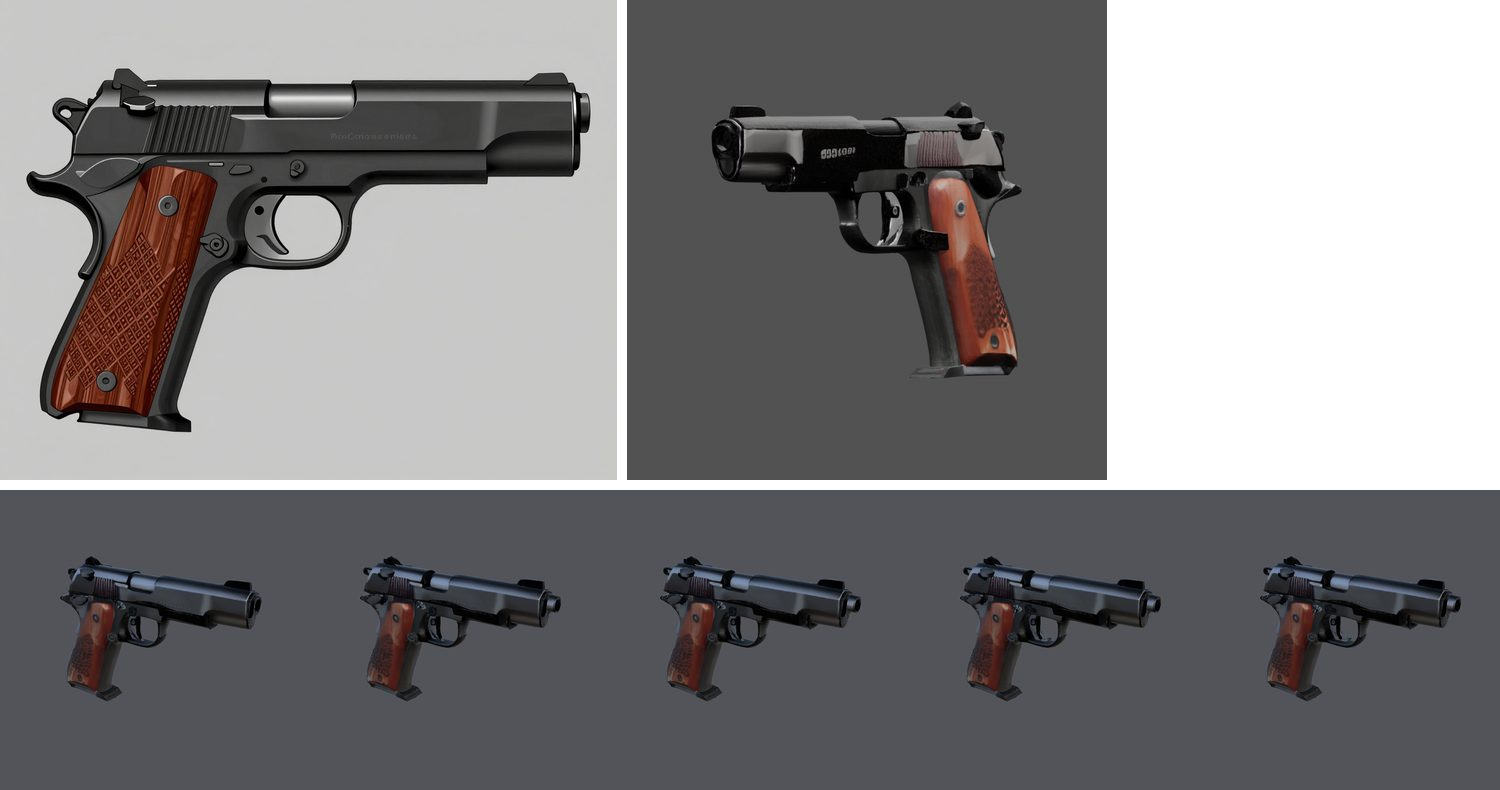
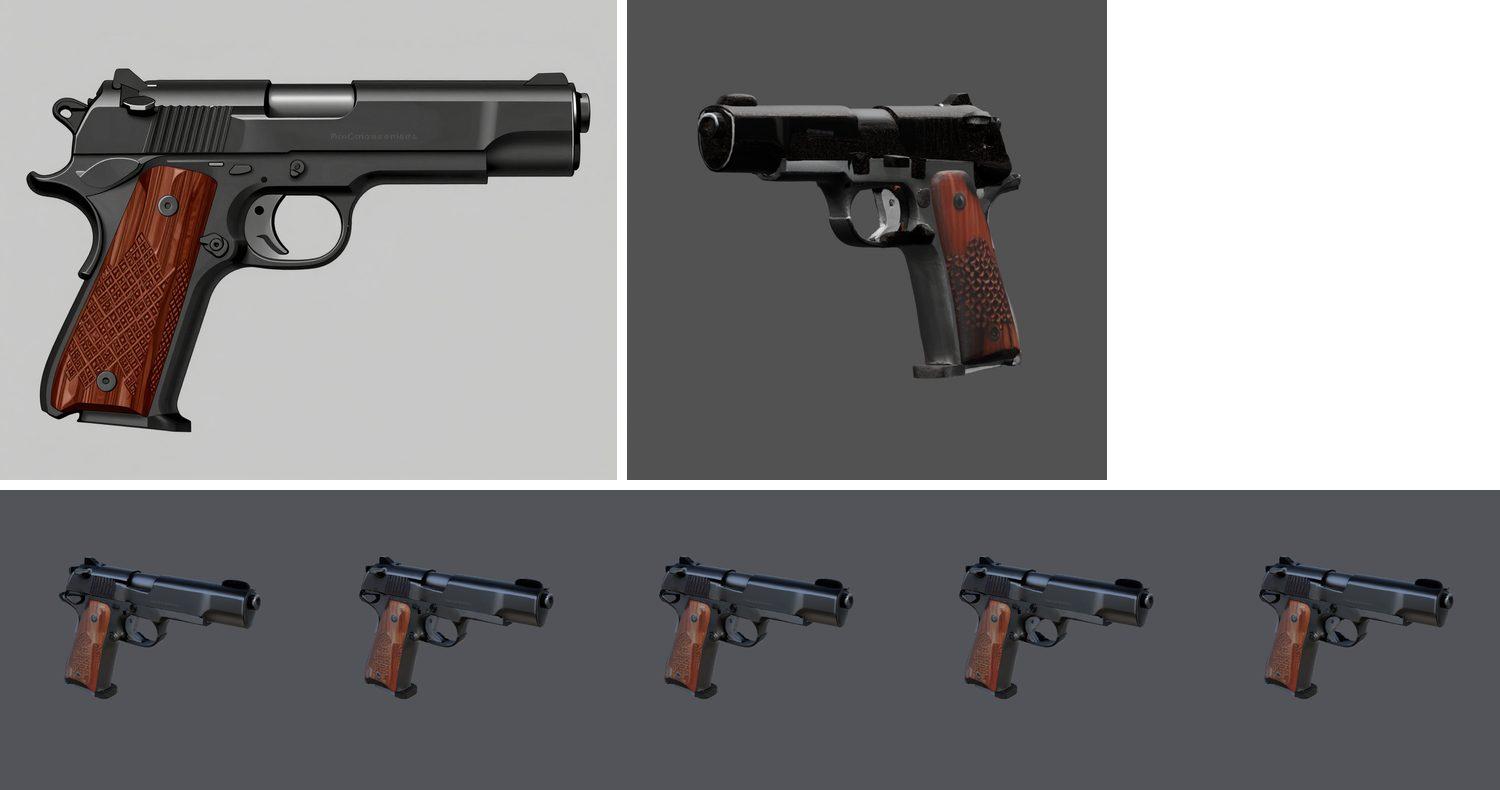
feat(validation): a mesh whose faces fold against each other is retried (mesh_folded)
The chest's sixth seed passed every gate, published and played, and Unity shaded it in
facets: the collapse decimation had crumpled the thin-walled box (0.47 of its shared edges
between opposed faces; sound meshes read 0.00-0.02) and Blender's custom normals hid it.
Inspection records folded_edge_share per mesh; over the type's max_folded_edge_share (0.1)
the candidate is the retryable mesh_folded. Evidence page and state say no chest is a usable
asset yet.

diff --git a/blender/inspect_model.py b/blender/inspect_model.py
@@ -26,6 +26,17 @@ def write_result(path, result):
     os.replace(temporary, path)
 
 
+def folded_edges(mesh):
+    """The share of a mesh's edges whose two faces point opposite ways: a surface crumpled into a sheet (a collapse
+    decimation on a thin-walled part, 2026-10-25) shades in facets in an engine while custom normals hide it here."""
+    bm = bmesh.new()
+    bm.from_mesh(mesh)
+    pairs = [edge for edge in bm.edges if len(edge.link_faces) == 2]
+    folded = sum(1 for edge in pairs if edge.link_faces[0].normal.dot(edge.link_faces[1].normal) < -0.5)
+    bm.free()
+    return round(folded / len(pairs), 4) if pairs else 0.0
+
+
 def connected_components(mesh):
     parent = list(range(len(mesh.vertices)))
     size = [1] * len(parent)
@@ -315,6 +326,7 @@ def inspect(source, face_budget, real_scale=False):
                           for obj in objects if isinstance(obj.get("slopforge_part_overflow"), str)), None)
     part_penetration = next(({name: float(value) for name, value in json.loads(obj["slopforge_part_penetration"]).items()}
                              for obj in objects if isinstance(obj.get("slopforge_part_penetration"), str)), None)
+    folded_edge_share = {obj.name: folded_edges(obj.data) for obj in objects}
     component_records = [part for obj in objects for part in component_details(obj)]
     weld_distance = max(dimensions) * 1e-5
     topology_edges = [topology_edge_counts(obj.data, weld_distance) for obj in objects]
@@ -340,6 +352,7 @@ def inspect(source, face_budget, real_scale=False):
                 **({"part_coverage": part_coverage} if part_coverage is not None else {}),
                 **({"part_overflow": part_overflow} if part_overflow is not None else {}),
                 **({"part_penetration": part_penetration} if part_penetration is not None else {}),
+                "folded_edge_share": folded_edge_share,
                 **({"part_components": {part["name"]: part["components"] for part in parts}} if parts else {}),
                 "bounds_min": minimum, "bounds_max": maximum, "dimensions": dimensions, "origins": origins,
                 "objects": object_bounds,

diff --git a/slopforge/validation.py b/slopforge/validation.py
@@ -425,6 +425,28 @@ def apply_part_penetration(validation, penetration, declared, tolerance):
     return validation
 
 
+def apply_mesh_folds(validation, shares, maximum):
+    """Fail a candidate whose faces fold against each other (retryable mesh_folded): `shares` is inspection's
+    folded_edge_share per mesh object, the share of edges whose two faces point opposite ways. A collapse
+    decimation can crumple a thin-walled generated part into such a sheet (the 2026-10-25 chest, 0.47); it shades
+    in facets in an engine while custom normals hide it in Blender. None (not measured): no verdict."""
+    if not shares:
+        return validation
+    measured, limits = validation.setdefault("measured", {}), validation.setdefault("limits", {})
+    measured["folded_edge_share"] = {name: float(value) for name, value in shares.items()}
+    measured["max_folded_edge_share"] = max(measured["folded_edge_share"].values())
+    limits["max_folded_edge_share"] = maximum
+    folded = [name for name, value in measured["folded_edge_share"].items() if value > maximum]
+    if folded:
+        detail = ", ".join(f"{name} {measured['folded_edge_share'][name]:.2f}" for name in folded)
+        validation["errors"] = [*validation.get("errors", []),
+            f"mesh faces fold against each other ({detail} of their shared edges, limit {maximum:g}): the reduction "
+            "crumpled a thin surface, so another seed is tried"]
+        validation["failure_codes"] = [*validation.get("failure_codes", []), "mesh_folded"]
+        validation["status"] = "failed"
+    return validation
+
+
 def apply_moving_parts(validation, declared):
     """Fail a weapon whose declared moving part did not come out as its own piece (retryable quality code).
 

diff --git a/tests/test_failure_classification.py b/tests/test_failure_classification.py
@@ -1029,6 +1029,19 @@ class PropComponentBudgetTests(unittest.TestCase):
         unmeasured = apply_part_penetration(_quality_report(component_count=1), {}, declared, 0.02)
         self.assertEqual(unmeasured.get("failure_codes", []), [])  # the cut route measures nothing: no verdict
 
+    def test_a_mesh_whose_faces_fold_against_each_other_is_retried(self):
+        # The C4 chest (2026-10-25): the collapse decimation crumpled a thin-walled box, 47% of its adjacent faces
+        # came out with opposed normals, and Unity shaded it in facets (Blender's custom normals hid it).
+        from slopforge.validation import apply_mesh_folds
+        report = apply_mesh_folds(_quality_report(component_count=1), {"body": 0.472, "lid": 0.01}, 0.1)
+        self.assertEqual(report["failure_codes"], ["mesh_folded"])
+        self.assertIn("body 0.47", report["errors"][-1])
+        self.assertEqual(report["measured"]["folded_edge_share"], {"body": 0.472, "lid": 0.01})
+        self.assertEqual((report["measured"]["max_folded_edge_share"], report["limits"]["max_folded_edge_share"]), (0.472, 0.1))
+        self.assertTrue(candidate_quality_rejection(report))
+        self.assertEqual(apply_mesh_folds(_quality_report(component_count=1), {"body": 0.026}, 0.1).get("failure_codes", []), [])
+        self.assertEqual(apply_mesh_folds(_quality_report(component_count=1), None, 0.1).get("failure_codes", []), [])
+
     def test_a_base_colour_without_textured_pixels_records_no_metric_and_stays_retryable(self):
         # 2026-10-25 live pistol: an all-black atlas left no texels to measure, the chroma metrics became NaN, the
         # failure record could not carry its evidence, and a retryable part_missing was reported as final.

diff --git a/slopforge/pipelines/model.py b/slopforge/pipelines/model.py
@@ -34,7 +34,7 @@ from ..unity_playmode import verify_play_mode
 from ..kit_material import kit_texture, match_hue, match_roughness
 from ..parts import check_part_masks, make_part_masks, part_settings
 from ..validation import (MIN_EMISSIVE_FRACTION, apply_concept_colour, apply_concept_silhouette, apply_declared_emitter,
-                          apply_part_coverage, apply_part_penetration,
+                          apply_mesh_folds, apply_part_coverage, apply_part_penetration,
                           apply_concept_fit, apply_declared_glass, apply_declared_nonmetal, apply_module_footprint,
                           apply_module_stretch, apply_moving_parts, apply_thin_features, apply_weapon_orientation,
                           concept_colour_fidelity, concept_thin_recall,
@@ -1294,6 +1294,8 @@ def _native_material_candidate(root, config, context, asset_type, asset, number,
         validation = apply_weapon_orientation(validation)
     if moving:
         validation = apply_moving_parts(validation, [name for name, _kind, _mask in moving])
+    validation = apply_mesh_folds(validation, validation.get("measured", {}).get("folded_edge_share"),
+                                  float(asset_type.get("max_folded_edge_share", 0.1)))
     if mesh_info.get("part_model"):
         validation = apply_part_coverage(validation, validation.get("measured", {}).get("part_coverage") or {},
                                          asset.get("parts") or [], asset_type.get("min_part_coverage", 0.55))

diff --git a/tests/test_blender_material_bake.py b/tests/test_blender_material_bake.py
@@ -1055,6 +1055,8 @@ bpy.ops.export_scene.gltf(filepath=sys.argv[-1], export_format='GLB', use_select
         # swept through its declared range (Unity's sense: a negative turn about x lifts a back-hinged lid): the
         # share of the lid's vertices inside the body over rest; the gate retries a seed that sweeps into the body
         self.assertLessEqual(measured["inspection"]["part_penetration"]["lid"], 0.02)
+        # the faces of a box and its lid agree with their neighbours: a crumpled reduction would read ~0.5
+        self.assertLess(max(measured["inspection"]["folded_edge_share"].values()), 0.05)
         sunk = self.orient({}, [], concept, None, budget=20000, target="-,-,0.6", masks=masks, pivot="bottom_center",
                            extra=("--part", "lid", "hinge", "lid.png", "--anchor", "lid=back-top",
                                   "--parts-json", "parts.json", "--motion", "lid=x:0..100"),

diff --git a/slopforge/failures.py b/slopforge/failures.py
@@ -30,6 +30,7 @@ _CANDIDATE_QUALITY_CODES = frozenset({
     "weapon_orientation",
     "part_missing",
     "part_penetrates",
+    "mesh_folded",
 })
 
 # ── Retryable categories (subset of all categories) ───────────────────
@@ -395,6 +396,7 @@ def candidate_quality_rejection(validation: dict) -> bool:
         "weapon_orientation": ("weapon_tip_alignment", "min_weapon_tip_alignment"),
         "part_missing": ("moving_parts_missing", "max_moving_parts_missing"),
         "part_penetrates": ("moving_parts_penetrating", "max_moving_parts_penetrating"),
+        "mesh_folded": ("max_folded_edge_share", "max_folded_edge_share"),
     }
 
     for code in codes:

diff --git a/docs/media/weapon-parts-functional-2026-10/README.md b/docs/media/weapon-parts-functional-2026-10/README.md
@@ -31,16 +31,17 @@ page is the live evidence for the branch that followed (`feat/weapon-parts-quali
 
 ## Pistol: published and played
 
-![Pistol: concept, Unity three-quarter view, the motion strip](pistol_unity.jpg)
+![Pistol P4: concept, Unity three-quarter view, the motion strip](pistol_unity.jpg)
 
-The P2 run (branch at PR1–5) passed its gates with the colour transfer and the metal-lightness match measured for
-the first time on this route (metal gain 2.9×, darkened share 0.053, slide 0.90 of its mask, trigger 0.99) and
-published through Unity: slide −0.0300 m, trigger 20.00°, penetration 0.002 and 0.001 over rest, no pivot drift.
-Its trigger had been declared `-20..0`, which in Unity's sense swings a hanging trigger forward. P3 is the same
-brief with `0..20` (a pull): its seed passed the mesh and colour gates (slide 0.86 of its mask, trigger 0.96) but
-Unity rejected the publication, the slide reading 0.040 of its vertices inside the frame over rest when drawn back
-(tolerance 0.02). That is what led to the sweep in Blender's final pass, so such a seed is replaced before
-materials; P4 is P3 re-approved with fresh seeds through it.
+| Run | Trigger declared | Mesh and colour gates | Unity |
+| --- | --- | --- | --- |
+| P2 (branch at PR1–5) | `-20..0` | passed: metal gain 2.9×, darkened 0.053, slide 0.90 of its mask, trigger 0.99 | published: slide −0.030 m, trigger −20°, penetration ≤ 0.002; the trigger swings forward (the sign) |
+| P3 | `0..20` (a pull) | passed: slide 0.86, trigger 0.96 | rejected: slide 0.040 inside the frame drawn back, by a single ray along x |
+| P4 (fresh seeds through the Blender sweep) | `0..20` | passed on seed 1: slide 0.95, trigger 0.86 (0.55 of it outside its mask), chroma ratio 1.41, darkened 0.018; Blender sweep 0.000 for both | **published and played**: slide −0.030 m, trigger 20.00°, penetration 0.015 and 0.006 (two-of-three rays), no pivot drift; 4 colliders, 1 kg, sockets grip/muzzle/slide/trigger, Animator `Rest`/`slide`/`slide_open`/`trigger`/`trigger_open`; Play mode: both pulses and `RestsOnTheGround` passed |
+
+P3's rejection came from the single-ray parity Unity used then: the same seed read 0.000 in Blender with rays along
+two of three axes, and a close-up render showed no clipping. Both checks now count a point inside by two of three
+rays; a single ray along x read 0.03–0.08 on three parts that were clear.
 
 ## Rifle: rejected by the coverage gate, and why
 
@@ -60,14 +61,17 @@ side) and says so; the brief, not a seed, has to change (a bigger bolt handle, o
 | --- | --- | --- | --- | --- |
 | C2 | `lid=hinge:x:0..110@back-top` | lid 0.86 of its mask, one piece, pivot on the lid's apex edge | passed on seed 3 (chroma ratio 0.77, darkened 0.16) | rejected: the lid swept through the body (0.27 of its vertices inside): `back-top` of a domed lid is its apex, and a positive turn sinks the front |
 | C3 | `lid=hinge:x:0..100@back-bottom` | lid 0.87, pivot on the seam | passed on seed 1 (0.72, 0.14) | rejected: 0.17 inside; the error now names `-100` as the sign that clears the body (0.000) |
-| C4 | `lid=hinge:x:-100..0@back-bottom` | lid 0.77 / 0.87 / 0.91 | seeds 1–3 failed (chroma ratio 0.39 / 0.07 / 0.55; darkened 0.65 on seed 2) | pending the retry |
+| C4 | `lid=hinge:x:-100..0@back-bottom` | lid 0.77 / 0.87 / 0.91, then 0.85 / 0.83 / 0.80 | seeds 1–3 failed (chroma ratio 0.39 / 0.07 / 0.55; darkened 0.65 on seed 2); seeds 4–5 failed; seed 6 passed (chroma ratio 0.93, darkened 0.05) | published and played: lid −100.00°, penetration 0.000, no pivot drift; 2 colliders, 5 kg, `Socket_lid` at the seam, Animator `Rest`/`lid`/`lid_open`; Play mode passed — **but Unity shades the mesh in facets**: the collapse decimation crumpled this seed's thin-walled box (0.47 of its shared edges between opposed faces; sound meshes 0.00–0.02), hidden in Blender by custom normals. A new `mesh_folded` gate rejects such a seed at the mesh stage; this one is not a usable asset |
 
+![Chest C4: concept, Unity three-quarter view (Blender preview), and the faceted Unity strip](chest_unity.jpg)
 ![Chest C3 in Unity: the lid turns about its seam, the wrong way](chest_c3_motion.jpg)
 
 OmniPart's chest textures vary from seed to seed: the oak comes out pale in front and dark on the sides and back,
 and one seed in three is grey all over. The colour transfer (median a\*b\* shift capped at 25, lightness up to 3×)
-lifts the lightness but not the chroma of a desaturated bake, so the chest's colour gates passed 2 of 9 seeds
-across these runs while the lid's geometry passed every one. That is the open quality item on props with parts.
+lifts the lightness but not the chroma of a desaturated bake, so the chest's colour gates passed 3 of 12 seeds
+across these runs while the lid's geometry passed every one; the one seed that passed everything else was crumpled
+by the reduction. **No chest is published as a usable asset yet.** Its open items are the colour consistency and a
+reduction that keeps thin walls (the mesh-fold gate now stops the crumpled ones from reaching Unity).
 
 ## What a game gets
 
@@ -81,7 +85,9 @@ the asset). The Play-mode run needs the project's editor installed by the Hub (o
 
 - OmniPart at 64³ cannot make a moving part under about 3 cells across; the preflight stops such briefs.
 - Seed-to-seed consistency: the chest's colour, the pistol's trigger coverage (0.64–0.99 across seeds) and its
-  overflow (0.74 of the trigger outside its mask on P2) all vary; nothing here is a repeatability claim.
+  overflow (0.55–0.74 of the trigger outside its mask) all vary; nothing here is a repeatability claim.
+- The penetration measures are ray-parity approximations on meshes with holes; Unity and Blender now use the same
+  rule, and the eye was the arbiter where they disagreed (renders in the private run folders).
 - Play mode checks that each part moves and returns and that the body settles on a floor; it does not check a
   player picking the asset up, nor the look under a game's own lighting.
 - No LODs; one asset per brief; the crossbow was not rerun.

diff --git a/CURRENT_STATE.md b/CURRENT_STATE.md
@@ -1049,12 +1049,19 @@ Multi-part weapons and props: quality and in-game function (2026-10-25, M3, [gui
   opt-in Unity live (colliders, sockets, Animator, penetration with the mirrored hint, Play mode), `make verify`.
 - **Live (2026-10-25):** pistol P2 published and played (slide −0.0300 m, trigger −20.00°, penetration ≤ 0.002;
   its trigger declared the wrong way, forward); P3, the same brief with the trigger pulling (`0..20`), passed the
-  mesh and colour gates but Unity rejected its slide (0.040 inside the frame drawn back), which led to the Blender
-  sweep; P4 is P3 re-approved through it. Rifle R2 rejected: the bolt handle
+  mesh and colour gates but Unity rejected its slide (0.040 inside the frame drawn back, by a single ray that
+  reads 0.03–0.08 on clear parts), which led to the Blender sweep and to both checks counting inside by two of
+  three rays; P4, re-approved through the sweep, published and played (slide −0.030 m, trigger 20.00°, penetration
+  0.015 and 0.006; Play mode passed). Rifle R2 rejected: the bolt handle
   (1.7 cells) and trigger (2.2 cells) are below OmniPart's grid, three seeds each; the preflight now stops such
   briefs. Chest: lid geometry passed on every seed (0.77–0.91 of its mask); C2 rejected in Unity (`@back-top` is a
   domed lid's apex), C3 rejected with the hint (`-100` clears), C4 with the right declaration failed the colour
-  gates on three seeds (chroma ratio 0.07–0.55: OmniPart paints the chest's sides dark) and is being retried.
-- **Not verified / open:** the chest's colour consistency (2 of 9 seeds passed the colour gates); seed variance of
+  gates on five seeds (chroma ratio 0.07–0.55: OmniPart paints the chest's sides dark) and published and played on
+  the sixth (lid −100.00°, penetration 0.000, `Socket_lid` at the seam, Play mode passed), but Unity shades that
+  mesh in facets: the collapse decimation crumpled the thin-walled box (0.47 of its shared edges between opposed
+  faces; sound meshes 0.00–0.02), hidden in Blender by custom normals. Inspection now records `folded_edge_share`
+  and the retryable `mesh_folded` gate (0.1) rejects such a seed. No chest is published as a usable asset yet.
+- **Not verified / open:** the chest's colour consistency (3 of 12 seeds passed the colour gates) and a reduction
+  that keeps thin walls; seed variance of
   the pistol's trigger coverage and overflow; Play mode checks motion and settling only; no LODs; the crossbow.
   Status Experimental: one brief per kind, no repeatability claim.

diff --git a/docs/WEAPONS.md b/docs/WEAPONS.md
@@ -235,6 +235,11 @@ next seed is tried. The spike of 2026-10-25 lost a part in one seed of four.
 **Identity:** the backend's name and the hashes of `part_model.py` and `prepare_parts.py` are part of the mesh
 stage's settings; changing either invalidates the stage like a workflow change.
 
+A reduction can crumple a thin-walled part: the 2026-10-25 chest's sixth seed came out of the collapse decimation
+with 0.47 of its body's shared edges between faces pointing opposite ways, Unity shaded it in facets and Blender's
+custom normals hid it. Inspection records `folded_edge_share` per mesh and a candidate over the type's
+`max_folded_edge_share` (0.1; sound meshes read 0.00–0.02) is the retryable `mesh_folded`.
+
 ## Props with parts
 
 The same declarations work on a prop: the `prop` type sets `part_model: omnipart`, so a chest that declares
